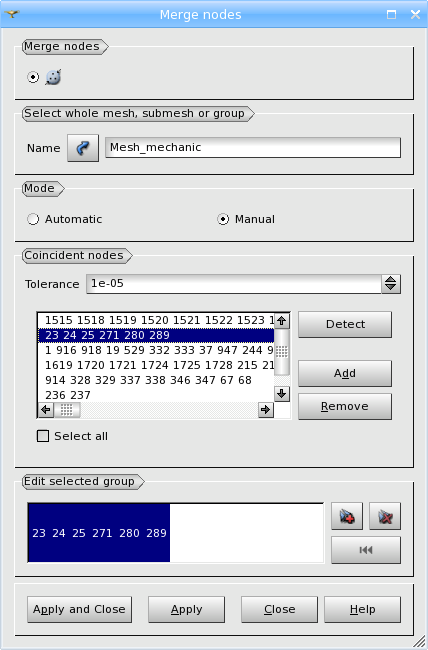
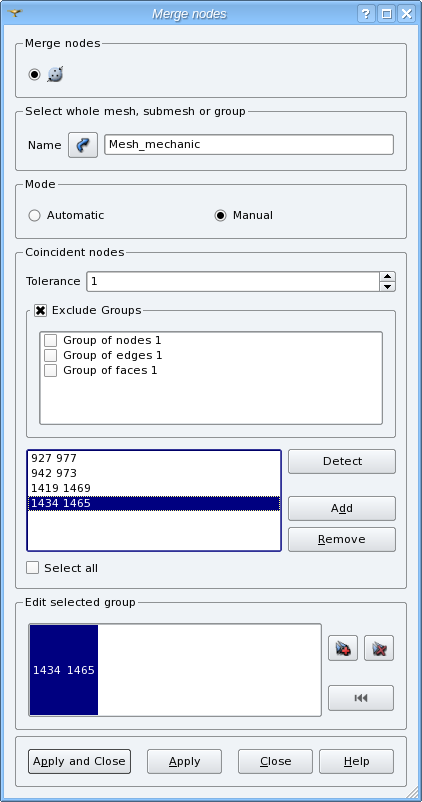
0020746: EDF 1274 SMESH : MergeAllNodesButNodesFromGroup feature

diff --git a/src/SMESHGUI/SMESH_msg_en.ts b/src/SMESHGUI/SMESH_msg_en.ts
@@ -3779,6 +3779,10 @@ Please select a groups and try again</translation>
         <source>SELECT_ALL</source>
         <translation>Select all</translation>
     </message>
+    <message>
+        <source>EXCLUDE_GROUPS</source>
+        <translation>Exclude Groups</translation>
+    </message>
 </context>
 <context>
     <name>SMESHGUI_ExtrusionAlongPathDlg</name>

diff --git a/src/SMESHGUI/SMESHGUI_MergeDlg.h b/src/SMESHGUI/SMESHGUI_MergeDlg.h
@@ -89,6 +89,8 @@ private:
   // add the centers of gravity of ElemsIdMap elements to the GrCentersXYZ list
 
 private:
+  typedef QList<SMESH::SMESH_GroupBase_var> GrpList;
+
   SMESHGUI*                 mySMESHGUI;     /* Current SMESHGUI object */
   LightApp_SelectionMgr*    mySelectionMgr; /* User shape selection */
   SVTK_Selector*            mySelector;
@@ -137,10 +139,16 @@ private:
   QPushButton*              RemoveElemButton;
   QPushButton*              SetFirstButton;
 
+  QGroupBox*                GroupExclude;
+  QListWidget*              ListExclude;
+
   QGroupBox*                TypeBox;
   QButtonGroup*             GroupType;
     
   QString                   myHelpFileName;
+
+  QString                   myEntry;
+  GrpList                   myGroups;
 
  private slots:
   void                      ClickOnOk();
